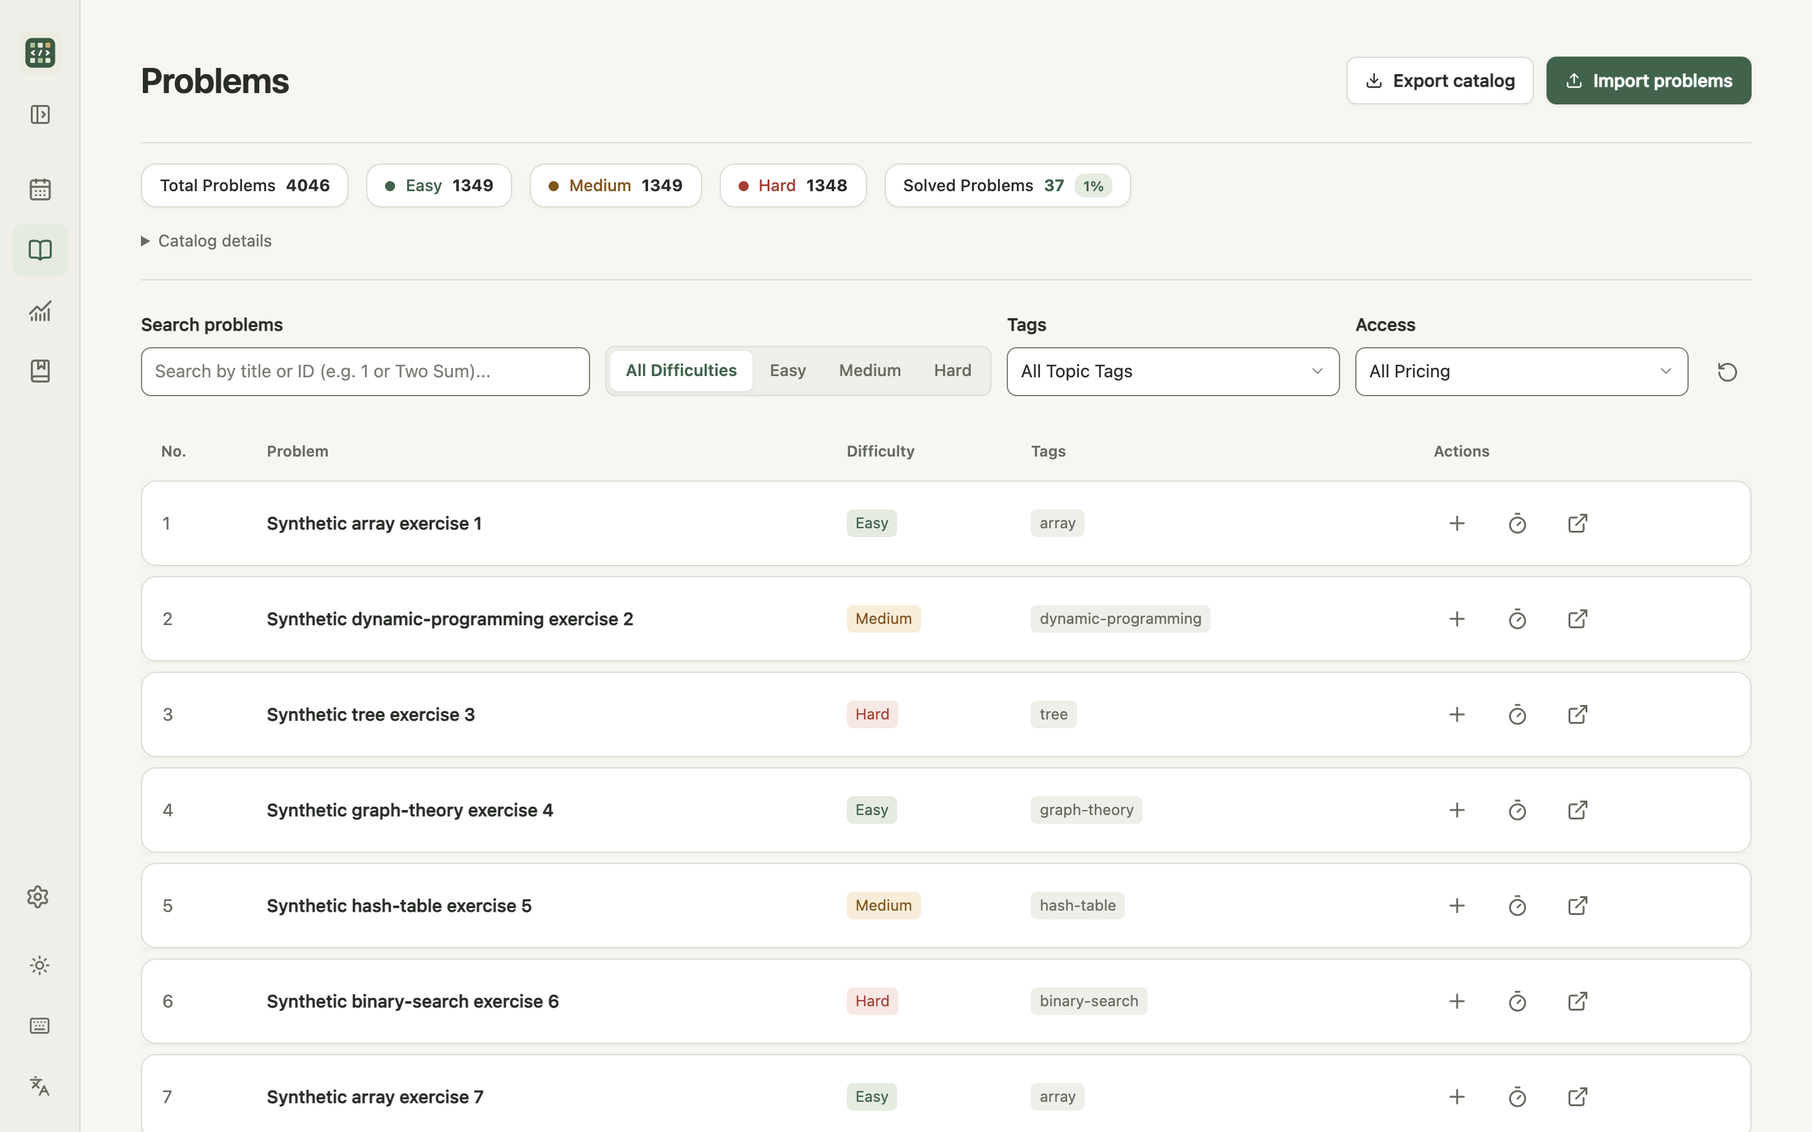
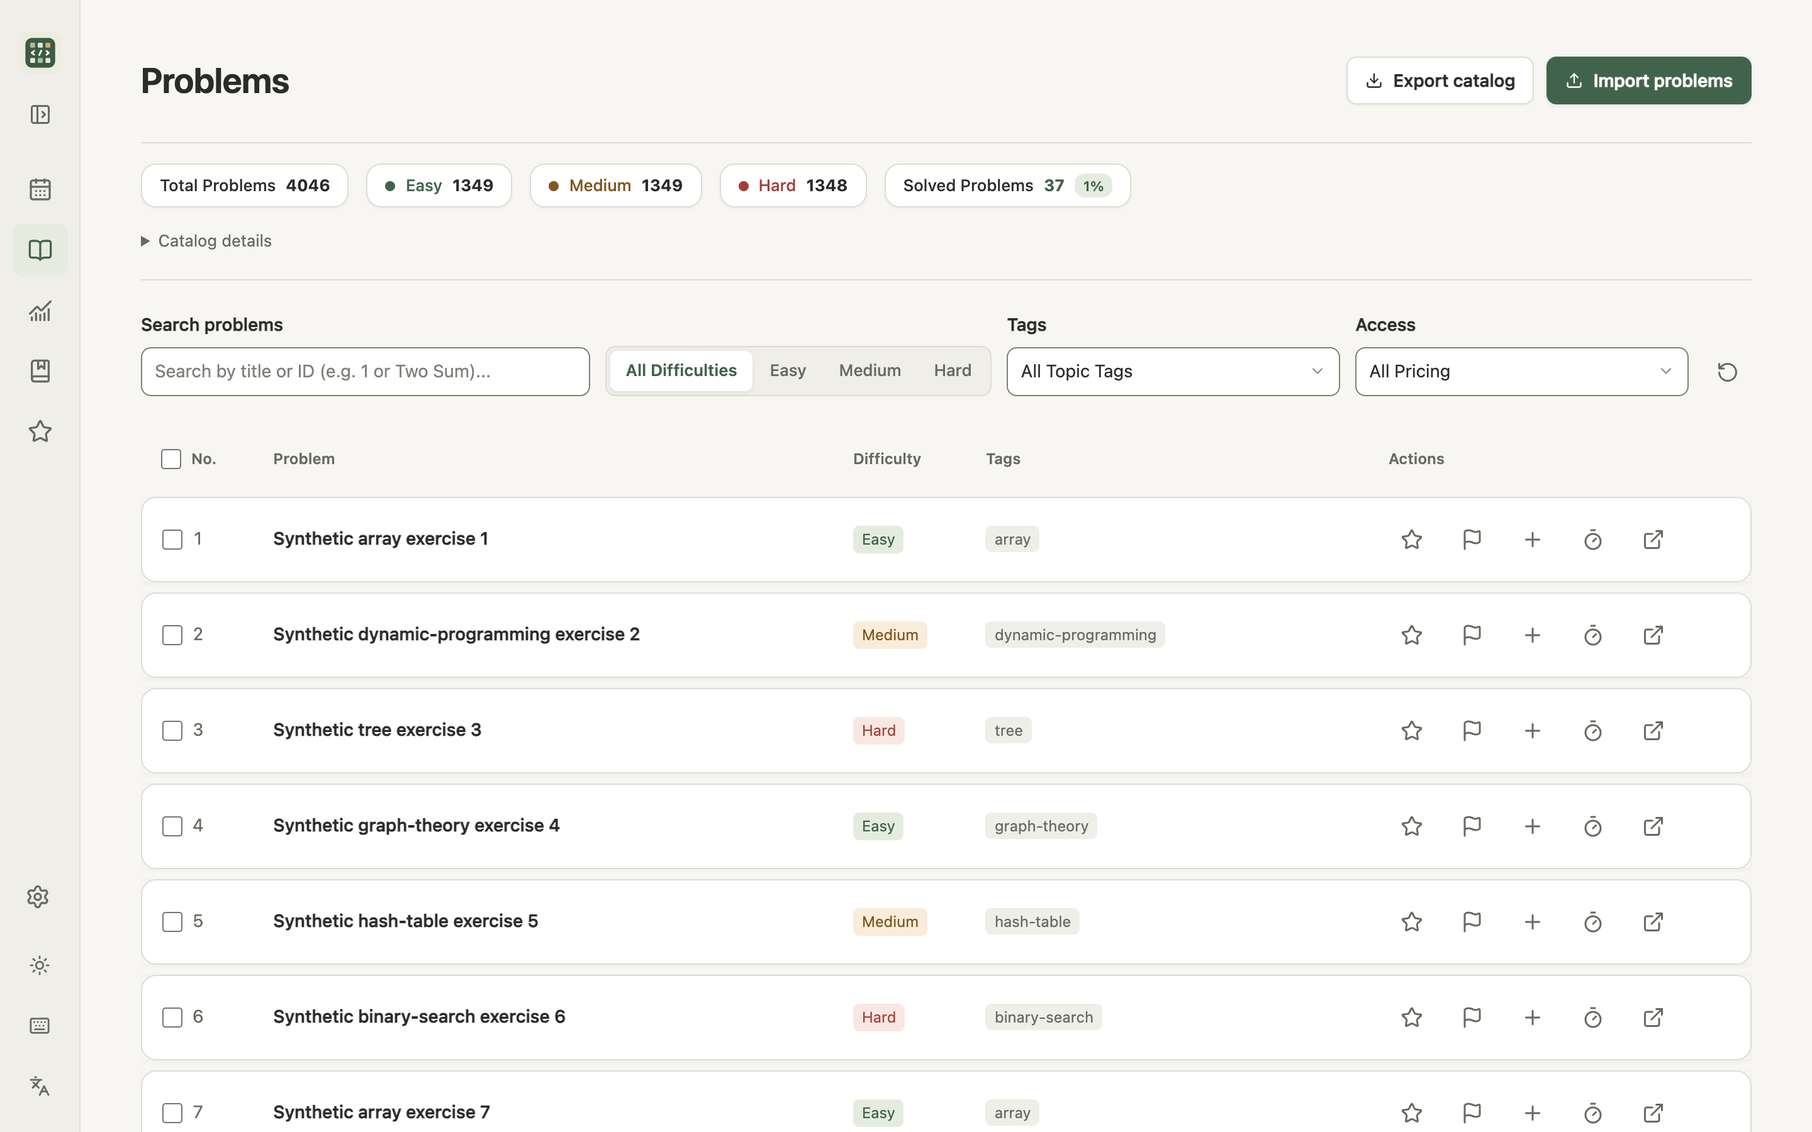
docs: align guides and screenshots with the 1.5.0 candidate

diff --git a/docs/desktop-workflow.md b/docs/desktop-workflow.md
@@ -2,9 +2,9 @@
 
 The same desktop UI runs in the Windows and Apple Silicon macOS desktop apps as well as source-mode browsers. Native mode shows recoverable startup status, uses native dialogs for exports, and opens allowed external links in the system browser. See [installation and runtime behavior](desktop.md).
 
-## Four places to work
+## Workspaces
 
-Today is the homepage. Problems is the local catalog. Notes provides problem Markdown editing, practice timelines, and export. Progress contains Statistics and Records, with Statistics selected by default. Settings remains at the sidebar bottom. The sidebar starts as a 64px icon rail; use Expand sidebar for 216px labelled navigation. This browser remembers the choice. Hover or focus icons for their names; Escape dismisses a tooltip. Row actions, reset, refresh and pagination use labelled icons, while saves and destructive actions retain text.
+Today is the homepage. Problems is the local catalog. Notes provides problem Markdown editing, practice timelines, and export. Progress contains Statistics and Records, with Statistics selected by default. Favorites contains All favorites and your folders. Settings stays at the sidebar bottom. Expand the sidebar for full navigation labels. The app remembers the choice. Hover or focus navigation icons for their names. Escape dismisses a tooltip.
 
 On a new installation, Today opens a three-step setup guide instead of an empty plan: timezone (saved as soon as it is picked, with a one-click device suggestion), catalog import, and study rhythm. The rhythm step offers a weekday preset (Monday–Friday, one Easy and two Medium problems, one of them a review) or a link to the full schedule editor. Only the current step is shown; finished steps are checked and every step can be revisited or skipped. Finishing or skipping the guide is remembered in this browser, and installations that already have a timezone, catalog and schedule never see it. Afterwards, Today flags an empty catalog with a link to Problems → Import problems.
 
@@ -21,6 +21,10 @@ Today shows one locally selected encouragement below its heading. The library co
 | Time a problem with the built-in stopwatch | Today → problem row → Start timer, or Problems → timer |
 | Open the original problem | Today → problem title link |
 | Replace unfinished problems or inspect versions | Today → More |
+| Make or edit an ordered goal list | Today → Goal lists → New list or Edit |
+| Assign one problem to goal lists | Flag beside a problem in Today, Problems or Favorites |
+| Add a selection to existing goals | Problems or Favorites → select rows → Add to goal lists |
+| Organize starred problems | Favorites, or the star beside a problem |
 | Import JSONL problem metadata | Problems → Import problems |
 | Bring in completed progress | Progress → Import progress |
 | Record extra or historical practice | Progress → Manual record |
@@ -34,6 +38,14 @@ Today shows one locally selected encouragement below its heading. The library co
 | Let local AI clients (MCP) read and write, copy client configuration | Settings → AI clients (desktop app) |
 | Sync between devices through a folder or Google Drive | Settings → Sync |
 | Migrate to another device, export to Obsidian or Notion | Settings → Data |
+
+## Goal lists and favorites
+
+Today shows daily plan progress, the selected goal's progress in saved order, and seven days of activity. Select an activity day to see its records. Each problem counts once per day in the chart, using the profile timezone.
+
+Create a goal list by searching the catalog or pasting problem IDs in order. In Problems or Favorites, select rows across pages to create a list or append to existing lists. Appending skips existing entries and adds new ones in natural problem ID order. Use **Edit** to move, replace, remove, or reopen entries. A goal-only check stays in its list. When the problem is also in today's active plan, a completion uses the same practice evidence for both places. Correcting or revoking the evidence reopens the linked check when no qualifying record remains. Older unlinked checks remain manual.
+
+Use the star to save a problem to All favorites and optionally to one or more folders. Use the Problems batch action to add stars while keeping existing folder memberships. Deleting a folder keeps its problems starred. Unfavoriting from a selection removes those stars from every folder.
 
 ## Completing a planned problem
 

diff --git a/README.md b/README.md
@@ -18,6 +18,8 @@ LeetCode Tracker packages the React interface, Fastify API, SQLite engine (schem
 
 Version 1.4.0 adds device sync, MCP client integration and signed in-app updates. Version 1.4.1 keeps the selected macOS Dock icon after quitting. Upgrading from 1.3.1 requires one manual install. [1.4.1 release notes](docs/releases/1.4.1.md)
 
+The 1.5.0 candidate adds ordered goal lists, a Favorites library, and a new Today overview. The workflows below describe the candidate. [1.5.0 candidate notes](docs/releases/1.5.0.md)
+
 ## Download and start
 
 Download the installer for your OS from the [latest release](https://github.com/Yide-Milo-Li/LeetCode-Tracker/releases/latest) and use the accompanying `SHA256SUMS.txt` to verify the download.
@@ -82,7 +84,7 @@ Browse a filterable problem list alongside a Markdown editor and CommonMark/GFM 
 
 ### Appearance and keyboard access
 
-Ten palettes, English/Chinese text, and light/dark/system appearance support desktop work, and selecting a palette dynamically tints the window/Dock icon to match. All eight screenshots come from the 1.4.1 browser build in English with the default light palette and synthetic catalog and practice data.
+Ten palettes, English/Chinese text, and light/dark/system appearance support desktop work, and selecting a palette dynamically tints the window/Dock icon to match. The eight screenshots show the 1.5.0 candidate in English with the default light palette and synthetic catalog and practice data.
 
 | Shortcut | Action |
 | --- | --- |
@@ -154,7 +156,7 @@ CI checks TypeScript, automated tests, the production frontend, documentation, n
 
 ## Documentation
 
-- [Documentation index](docs/README.md) · [Desktop installation](docs/desktop.md) · [1.4.1 release notes](docs/releases/1.4.1.md) · [MCP setup](apps/mcp/README.md)
+- [Documentation index](docs/README.md) · [Desktop installation](docs/desktop.md) · [1.5.0 candidate notes](docs/releases/1.5.0.md) · [MCP setup](apps/mcp/README.md)
 - [Data format](docs/data-format.md) · [Device sync](docs/sync.md) · [AI providers](docs/llm-providers.md) · [Topic insights](docs/topic-practice-insights.md)
 - [Architecture](docs/architecture.md) · [Applications](apps/README.md) · [Shared packages](packages/README.md)
 - [Tests](tests/README.md) · [Scripts](scripts/README.md) · [Roadmap](docs/roadmap.md)

diff --git a/docs/application-boundaries.md b/docs/application-boundaries.md
@@ -21,6 +21,14 @@ Existing contracts validate inputs inside each application method. Outputs are i
 | `GET /api/v1/catalog` | `catalog.query` | query; no params | Catalog preview/commit and history | server-api |
 | `GET /api/v1/catalog/tags` | `catalog.tags` | none; no params | Catalog preview/commit and history | server-api |
 | `GET /api/v1/catalog/stats` | `catalog.stats` | none; no params | Catalog preview/commit and history | server-api |
+| `GET /api/v1/favorites` | `favorites.library` | none | Favorite folder counts | server-api |
+| `PUT` or `DELETE /api/v1/favorites/folders` | `favorites.saveFolder` or `favorites.deleteFolder` | body | Folder edits and membership cleanup | server-api; mcp-write |
+| `PUT /api/v1/favorites/problems` | `favorites.saveProblem` | body | Guarded star and folder membership edit | server-api; mcp-write |
+| `PUT` or `DELETE /api/v1/favorites/problems/batch` | `favorites.addProblems` or `favorites.removeProblems` | body | Atomic selection changes | server-api; mcp-write |
+| `GET /api/v1/goal-lists/summaries` | `goalLists.summaries` | page and limit | Paged names and counts | server-planning-api |
+| `PUT /api/v1/goal-lists/memberships` | `goalLists.setProblemMembership` | body | Guarded membership replacement | server-planning-api; mcp-write |
+| `PUT /api/v1/goal-lists/memberships/batch` | `goalLists.addProblems` | body | Atomic append to several goal lists | server-planning-api; mcp-write |
+| `PATCH /api/v1/goal-lists/:id/items` | `goalLists.editItem` | body and id | Versioned item edit and linked practice | server-planning-api; mcp-write |
 | `POST /api/v1/practice-records` | `practice.create` | body; no params | Versioned practice writes and replay | server-practice-api; practice-reliability |
 | `GET /api/v1/practice-records` | `practice.query` | query; no params | Versioned practice writes and replay | server-practice-api; practice-reliability |
 | `GET /api/v1/practice-records/:id` | `practice.read` | none; id | Versioned practice writes and replay | server-practice-api; practice-reliability |

diff --git a/docs/architecture.md b/docs/architecture.md
@@ -73,7 +73,7 @@ The workbench invalidates pending file reads and preview responses on input chan
 
 ## Device sync
 
-`apps/server/src/sync/` implements personal device sync on top of Snapshot Bundle v5 (see [device sync](sync.md)). `DeviceSyncService` owns configuration, remote listing, publish and preview-then-receive; adapters only move named blobs (`FolderBlobStore` for a user-chosen sync folder, `GoogleDriveBlobStore` for the Drive `appDataFolder`). Graph rules (heads, fork detection, supersedes) are pure functions in `packages/domain/src/device-sync.ts`; content hashing, snapshot encoding and the device-local `sync_*` settings live in `packages/database/src/device-sync.ts`. `isDeviceLocalSetting` extends the credential filter so sync configuration and OAuth tokens are never exported and are preserved on import. Publish and receive run under the server write lock; receive goes through `importSnapshotBundle`, so the safety backup precedes replacement, and then shares the post-restore refresh with bundle import.
+`apps/server/src/sync/` implements personal device sync on top of Snapshot Bundle v5 (see [device sync](sync.md)). `DeviceSyncService` owns configuration, remote listing, publish and preview-then-receive. Adapters move named blobs through `FolderBlobStore` or `GoogleDriveBlobStore`. Graph rules live in `packages/domain/src/device-sync.ts`. Content hashing, snapshot encoding and the device-local `sync_*` settings live in `packages/database/src/device-sync.ts`. Sync configuration and OAuth tokens stay on the device. The sync lock serializes transfers and configuration. Publish captures a snapshot and advances its base under the profile write lock, releasing that lock during transfer. Receive goes through `importSnapshotBundle` for the safety backup, replacement and post-restore refresh.
 
 ## Topic analysis and adaptive projections
 

diff --git a/docs/requirements.md b/docs/requirements.md
@@ -23,6 +23,7 @@ Use a positive integer daily count and nonnegative integer difficulty counts tot
 The primary destinations are Today (default), Problems, Progress, Notes and Favorites. Settings stays at the sidebar bottom. Desktop windows at 1024, 1440 and 1920 pixels, English/Chinese, light/dark/system themes and keyboard access are supported. Mobile UI is outside scope.
 
 - Today shows seven calendar days including today in the configured timezone, the activity streak, generated-plan progress and actionable problems. Study schedule is a child workspace; Adjust today affects only the current plan. Keep replacement, versions, shortages, rest/setup and local fallback visible.
+- Users can create ordered goal lists from catalog selections or pasted IDs and add the same selection to several lists without resetting order or completion. Goal-only checks are local to the list. Shared plan completions use one practice record and follow subsequent corrections or revocation of qualifying evidence.
 - An empty completion circle saves an actual-time manual record immediately. Only after persistence does it offer optional positive-integer duration and notes. Skip, close, Escape and backdrop dismissal preserve the record. Details update the same ID. Initial failure is unchecked; failed detail edits preserve both completion and input.
 - A checked circle opens exact completion evidence. Revoking one manual record retains audit and all other records/snapshots. Existing evidence rules determine the resulting completion state.
 - Progress defaults to Statistics, with Records as its other tab. Top actions open Import progress and Manual record. Manual entry searches the local catalog first, supports historical and date-only practice, and uses the same record editor. Missing problems lead to catalog import.

diff --git a/docs/releases/1.5.0.md b/docs/releases/1.5.0.md
@@ -1,0 +1,11 @@
+# LeetCode Tracker 1.5.0
+
+This release is in preparation. The latest published installers are available on [GitHub Releases](https://github.com/Yide-Milo-Li/LeetCode-Tracker/releases/latest).
+
+- **Ordered goal lists.** Add problems from your catalog or paste their IDs in practice order. Switch goals on Today, reorder entries, and add a selection to several lists while preserving their existing order and checkmarks.
+- **Favorites.** Star problems from Today or Problems and organize them in one or more folders. The Favorites workspace lets you browse by folder and work with a selection across pages. Removing a folder keeps its problems in All favorites.
+- **Today and practice.** See daily plan progress, goal progress, and a seven-day activity chart with links to the records for each day. Completing a problem shared by the strategy and a goal list uses one practice record. Correcting or revoking that record updates the linked checkmark if no other qualifying record remains.
+- **Review settings.** Set a cap per strategy and choose review spacing under **Settings → Practice & notes**. A due review can use available review capacity before the plan fills the remaining slots with new problems.
+- **MCP and sync.** Local AI clients can manage favorite folders, change goal memberships, and page through ordered goal entries. Local practice edits can continue while a device snapshot uploads.
+
+After 1.5.0 is published, use **Settings → General → App updates** on an official 1.4.0 or 1.4.1 desktop build. Users on 1.3.1 or earlier can quit Tracker and install the package for their platform. Existing profiles keep the same data directory, SQLite schema v12, and Snapshot Bundle v5. [Desktop updates](../desktop.md#14-app-updates) · [Verification](../status.md)

diff --git a/docs/README.md b/docs/README.md
@@ -1,10 +1,10 @@
 # Documentation index
 
-[1.4.1 release notes](releases/1.4.1.md) · [1.4.0 release notes](releases/1.4.0.md) · [1.3.1 release notes](releases/1.3.1.md) · [Desktop installation and native runtime (Windows & macOS)](desktop.md) · [Current verification and limitations](status.md)
+[1.5.0 candidate notes](releases/1.5.0.md) · [1.4.1 release notes](releases/1.4.1.md) · [1.4.0 release notes](releases/1.4.0.md) · [Desktop installation and native runtime (Windows & macOS)](desktop.md) · [Current verification and limitations](status.md)
 
 Users provide their own JSONL problem metadata with appropriate usage rights. The application creates its own SQLite database. Catalog import and progress import are separate implemented workflows; the repository contains no dataset.
 
-All maintained documentation is English. The implemented desktop interface supports Chinese and English, with four main destinations: Today, Problems, Progress and Notes, plus Settings. The current release includes a Windows 11 x64 Tauri NSIS installer and an Apple Silicon macOS 14+ `.app`/`.dmg` package, while retaining cross-platform browser source mode.
+All maintained documentation is English. The 1.5.0 candidate supports Chinese and English across Today, Problems, Progress, Notes, Favorites, and Settings. The published release includes a Windows 11 x64 Tauri NSIS installer and an Apple Silicon macOS 14+ `.app`/`.dmg` package. Browser source mode remains available on both platforms.
 
 ## Architecture & System Design
 

diff --git a/docs/data-format.md b/docs/data-format.md
@@ -99,7 +99,7 @@ The local SQLite catalog schema is defined in [schema.ts](../packages/database/s
 - **`problem_review_state`**: Existing interval-based review state tracking per problem; the algorithm is unchanged by the desktop refactor.
 - **`import_results`**: Complete committed response, including line errors, keyed by import ID for durable retry replay.
 - **`import_history`**: Audit log recording ingestion timestamps, lines processed, inserted/updated/unchanged/duplicate counts, and error counts.
-- **`catalog_meta`**: Key-value metadata storing monotonic `catalog_revision`, `practice_revision`, `planning_revision`, `review_baseline`, and `last_imported_at`.
+- **`catalog_meta`**: Key-value metadata storing revisions, review baseline, and last import time. Goal-list documents store ordered entries, completion, and an optional link to the assignment time used to evaluate practice evidence. Favorite folder names and per-problem memberships have separate keys. Bundle v5 validates these entries against the exported catalog and folder IDs on restore.
 - **`settings`**: User preferences table storing `language` ('en' | 'zh'), `theme` ('light' | 'dark' | 'system'), and `timezone` (string | null).
 - **`schema_version`**: Tracks applied database schema version (currently v12).
 - **`practice_records`**: Stores individual practice attempts, including optional `outcome` ('independent' | 'assisted' | 'unsolved' | null) with index `idx_practice_records_outcome`.

diff --git a/tests/README.md b/tests/README.md
@@ -1,5 +1,9 @@
 # Testing boundaries
 
+## 1.5.0 candidate
+
+`server-planning-api` verifies ordered goal edits and linked completion after practice corrections and revocations. `server-api` covers favorites, and `mcp-write` exercises guarded membership edits and paged reads through stdio. `server-dashboard-api` covers Today activity against full statistics. `device-sync` covers a delayed upload with a concurrent local write using a simulated Drive server. See [candidate verification](../docs/status.md) for the latest results.
+
 ## 1.4.1 verification
 
 Branch CI runs the application suite, Windows desktop checks and installer build, Apple Silicon packaging and migration checks, and a separate WKWebView migration job. Tag builds also verify the updater package signatures before staging a draft. The README gallery was refreshed with synthetic data for 1.4.0. Installed-app results for earlier builds are recorded in [implementation status](../docs/status.md). [CI runs](https://github.com/Yide-Milo-Li/LeetCode-Tracker/actions/workflows/ci.yml)

diff --git a/CHANGELOG.md b/CHANGELOG.md
@@ -1,5 +1,14 @@
 # Changelog
 
+## [1.5.0] - Unreleased
+
+- Added ordered goal lists and a Favorites library. Select problems across catalog pages, organize stars in folders, and append selections to multiple goal lists.
+- Reworked Today around daily plan progress, the active goal list, and seven days of activity. Checking a shared task records practice once. Later corrections update linked checkmarks according to the remaining evidence.
+- Added MCP tools for favorites and goal-list membership. Improved the loading of goal lists, Today activity, and background sync so local edits can continue during an upload.
+- Added an explicit review cap and moved review spacing to the learner-wide Practice & notes settings.
+
+See the [1.5.0 candidate notes](docs/releases/1.5.0.md).
+
 ## [1.4.1] - 2026-11-18
 
 - Keep the selected macOS Dock icon after the first quit and restore the shipped icon when returning to the default light palette.

diff --git a/apps/mcp/README.md b/apps/mcp/README.md
@@ -2,7 +2,7 @@
 
 A [Model Context Protocol](https://modelcontextprotocol.io) server for LeetCode Tracker. It lets Claude Code, Claude Desktop, Codex, Antigravity and other MCP clients read and update your local problem catalog, study plans, practice history, notes and progress. It runs over stdio and works independently or through the desktop app's loopback service.
 
-Desktop 1.4.1 bundles MCP server version `1.4.1`. Install the desktop release or build the standalone server from this checkout. [Desktop downloads](https://github.com/Yide-Milo-Li/LeetCode-Tracker/releases/latest)
+Desktop 1.4.1 bundles MCP server version `1.4.1`. The tool reference below describes this checkout, including goal lists and favorites in the 1.5.0 candidate. [Desktop downloads](https://github.com/Yide-Milo-Li/LeetCode-Tracker/releases/latest) · [1.5.0 candidate notes](../../docs/releases/1.5.0.md)
 
 ## Requirements
 

diff --git a/docs/status.md b/docs/status.md
@@ -1,5 +1,11 @@
 # Implementation status
 
+## 1.5.0 candidate
+
+The candidate adds ordered goal lists, favorite folders, shared practice completion, and a Today activity overview. [Candidate notes](releases/1.5.0.md)
+
+Candidate source `be77c6f` passed 695 JavaScript, renderer and bundled-sidecar tests locally, plus TypeScript and the production frontend build. A separate 1.5.0 profile and bundle identifier were used for the local Apple Silicon package. The eight README captures use an isolated synthetic catalog. Hosted tag builds and the installation of a published 1.5.0 update remain pending.
+
 ## Release 1.4.1
 
 The macOS Dock keeps the selected palette after the first quit. This release also adds automatic sync for devices with a configured target and repairs relative dates in LeetCode progress imports. [Release notes](releases/1.4.1.md)
